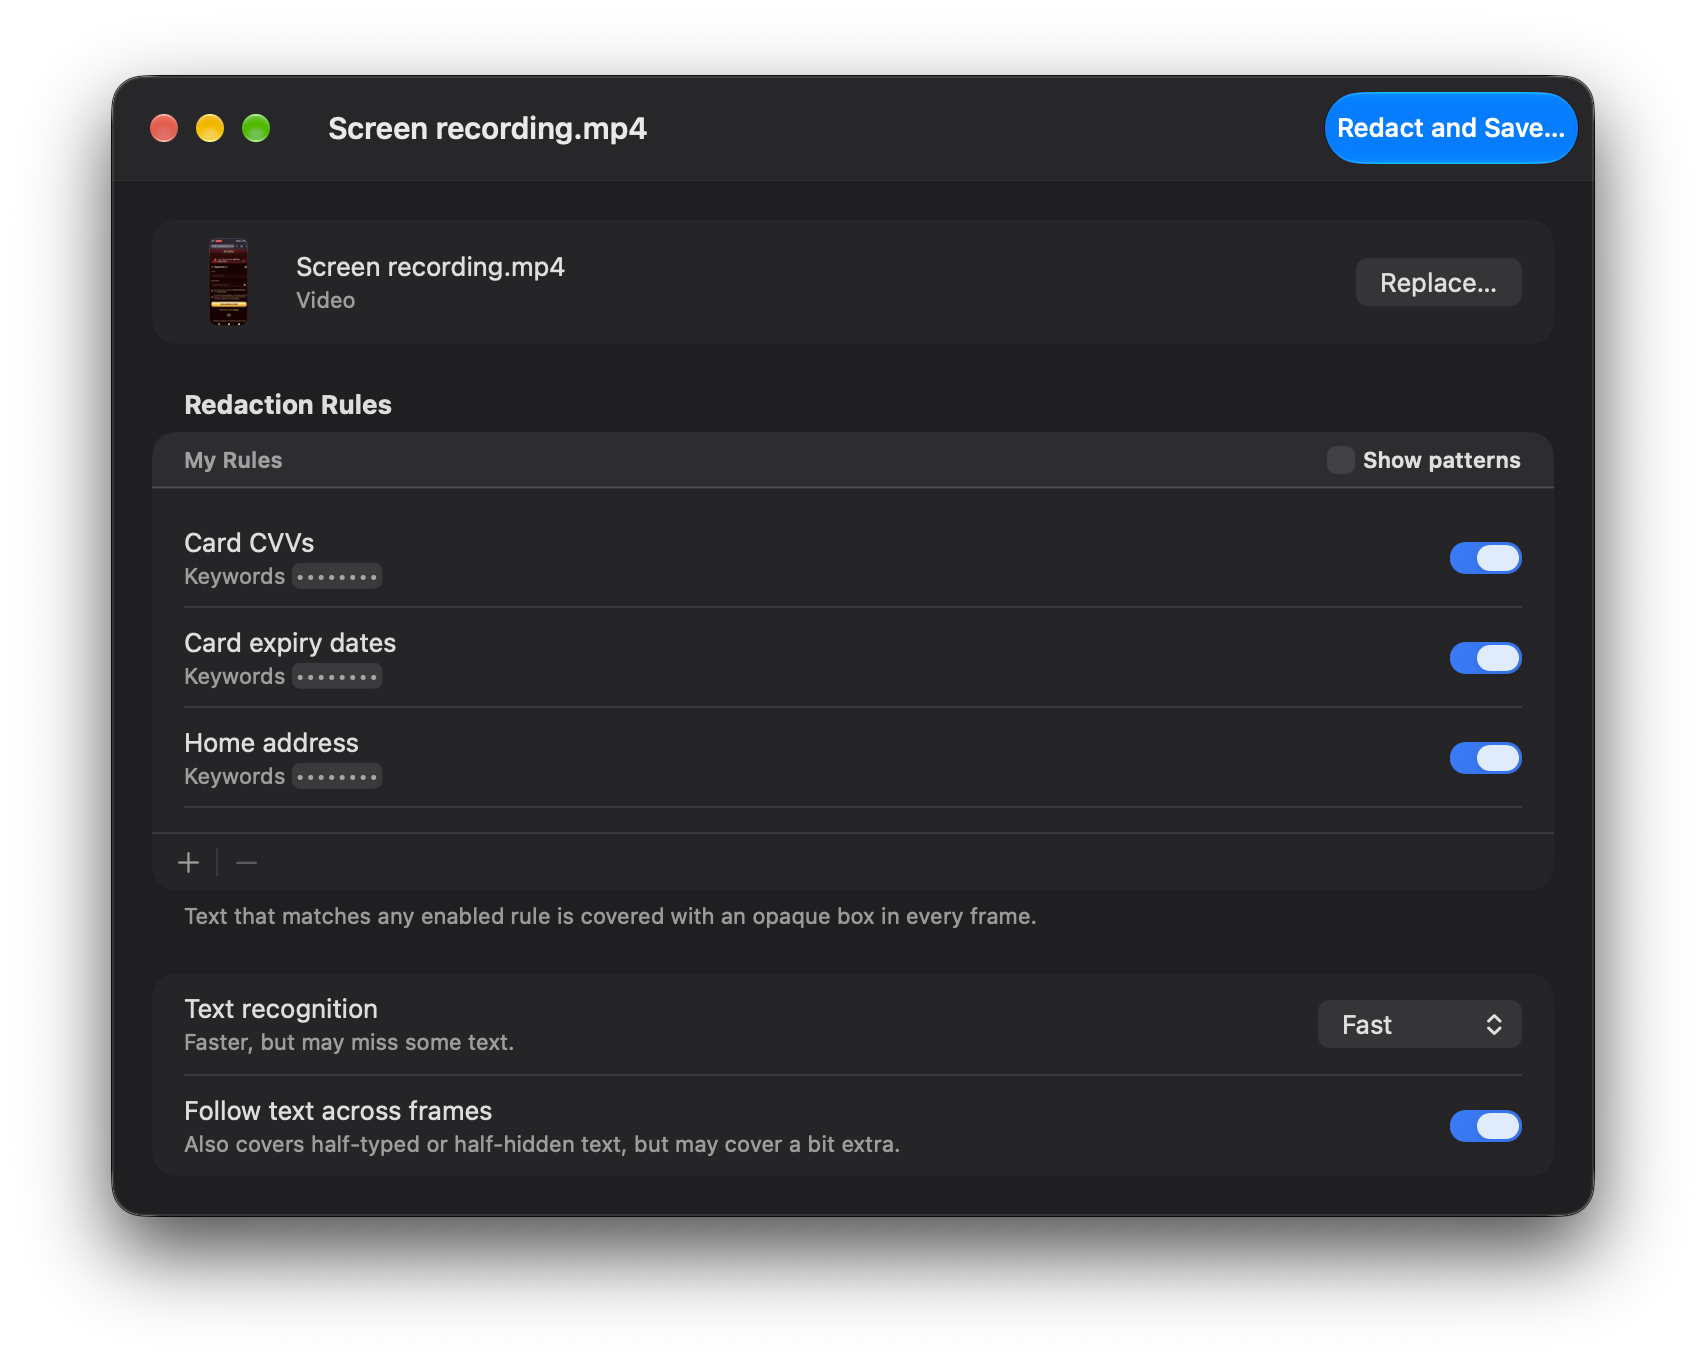
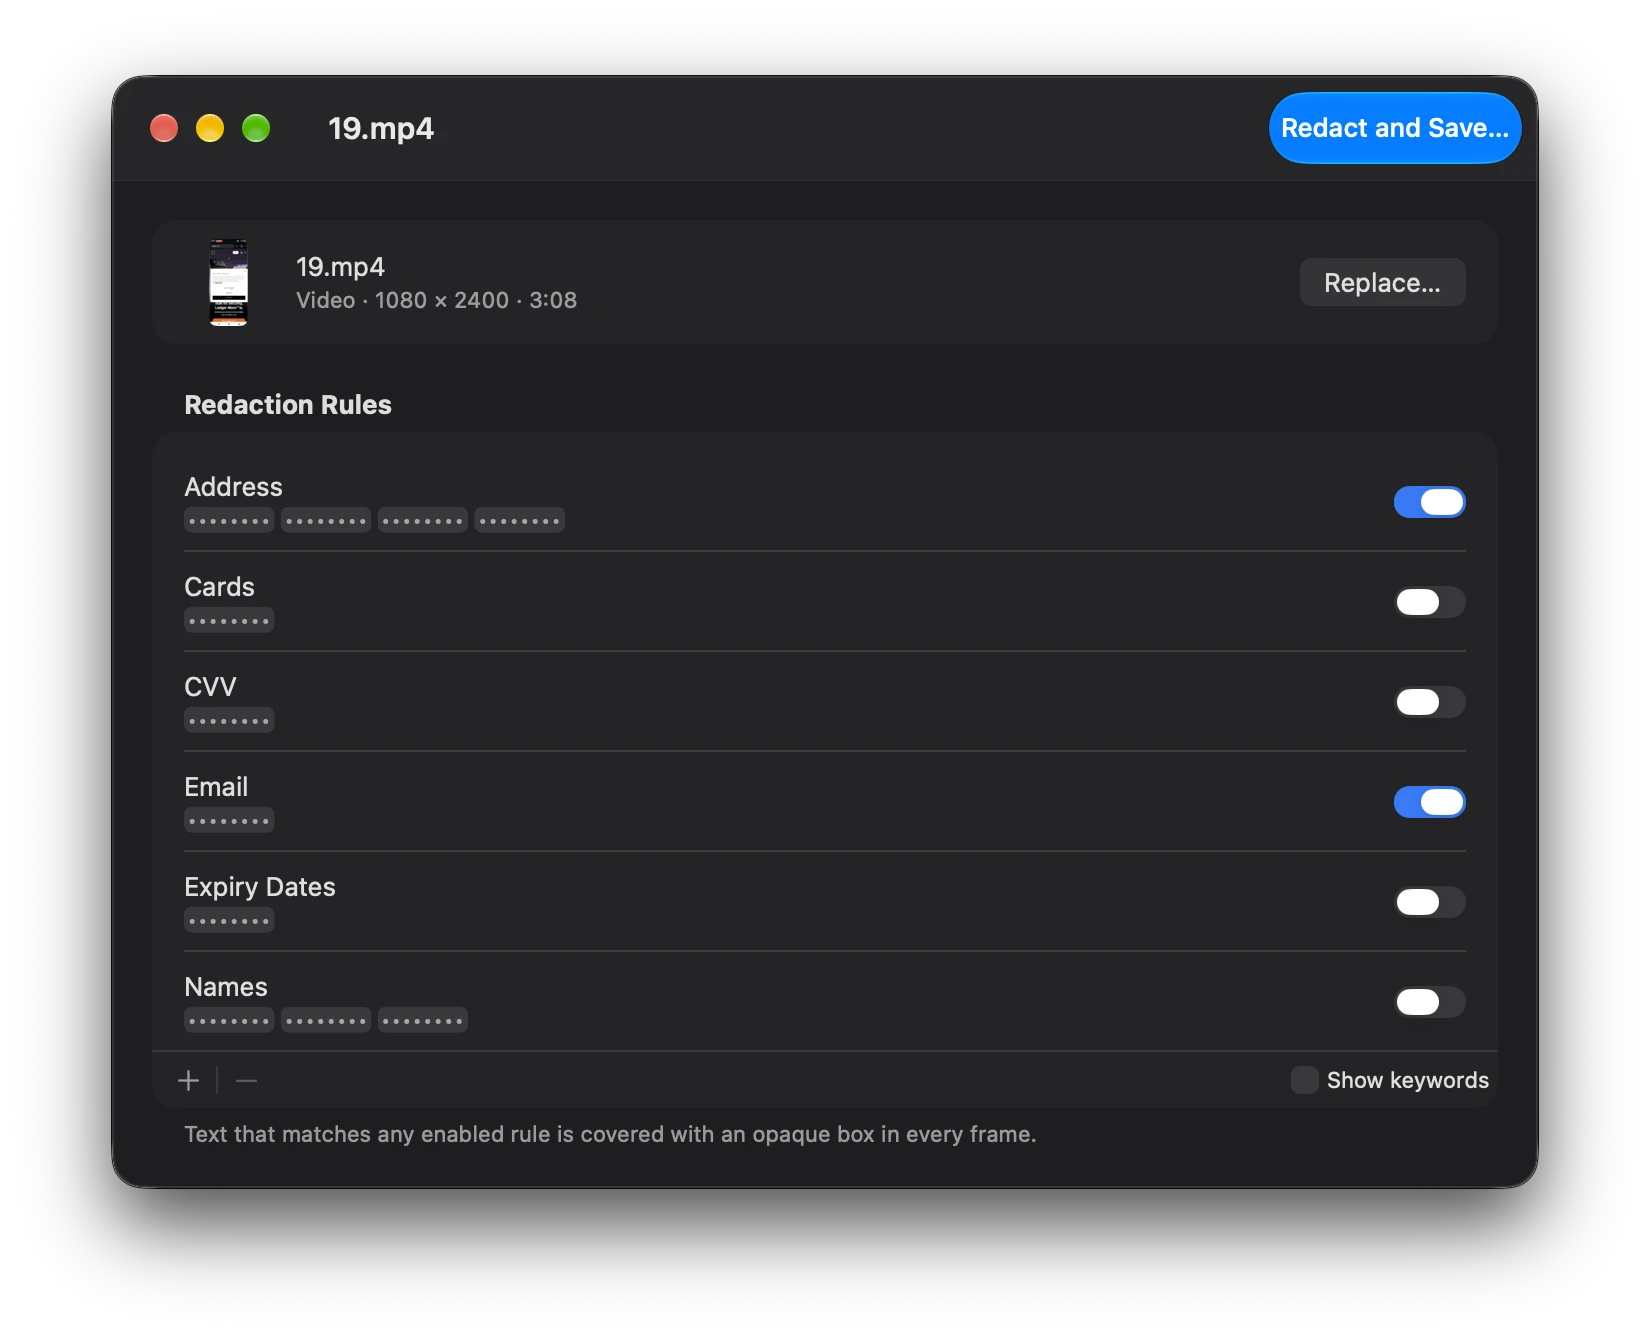
Replace the Shrike screenshots with ones showing keyword rules

diff --git a/shrike/index.html b/shrike/index.html
@@ -124,7 +124,7 @@
           <figure class="how-shot">
             <picture>
               <source srcset="screenshot-dark.webp" media="(prefers-color-scheme: dark)">
-              <img src="screenshot-light.webp" width="853" height="682" loading="lazy" decoding="async" alt="Shrike's window with a video open, showing three custom redaction rules switched on and the text recognition setting.">
+              <img src="screenshot-light.webp" width="825" height="668" loading="lazy" decoding="async" alt="Shrike's window with a video open, showing the Address and Email redaction rules switched on among six keyword rules.">
             </picture>
           </figure>
         </div>
